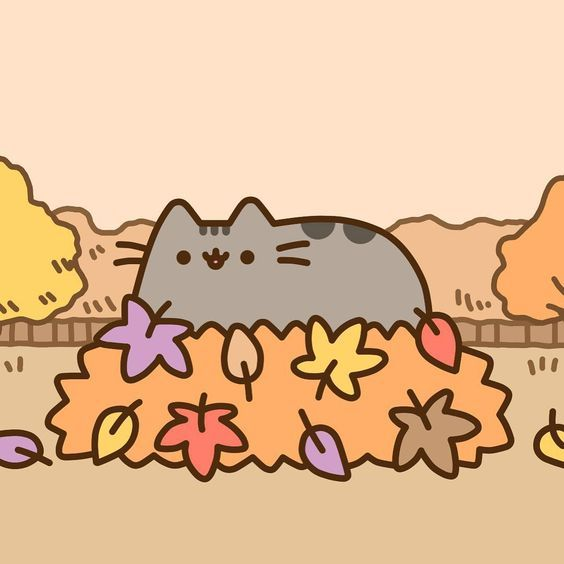
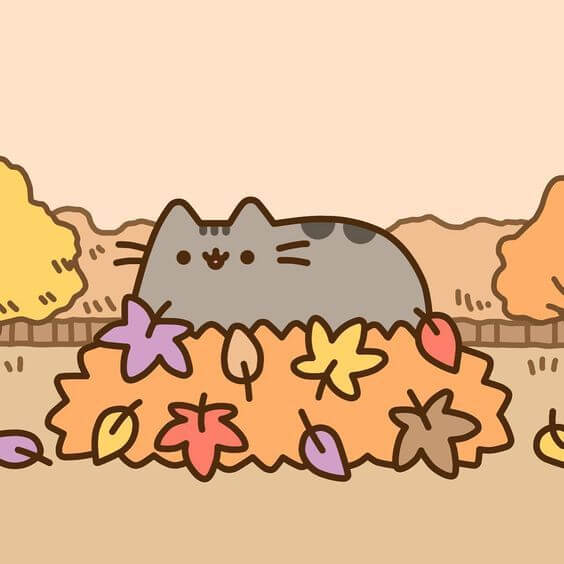
Compress images

Changed region(s): [[0.211, 0.7837, 0.2411, 0.8138]]

diff --git a/pages/pusheen-memory.md b/pages/pusheen-memory.md
@@ -32,7 +32,7 @@ permalink: /pusheen-memory
         "flowers.jpg",
         "halloween.gif",
         "mermaid.gif",
-        "more_ice_cream.jpg",
+        "more_ice_cream.gif",
         "pusheen_ice_cream.jpg",
         "shersheen.gif",
         "snowman.png"
